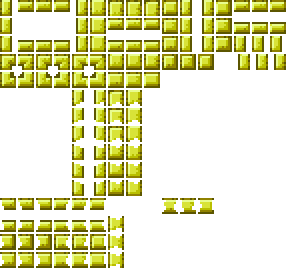
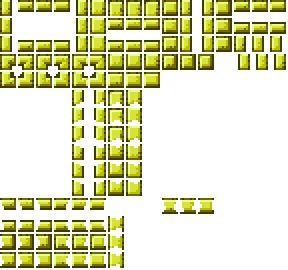
Tweaks to Radon and Oganesson Glow and Lighting

Changed region(s): [[0.0, 0.0, 1.0, 1.0], [0.5625, 0.7704, 0.75, 0.8], [0.5625, 0.7111, 0.75, 0.7407]]

diff --git a/Content/Underground/Moss/Radon/RadonMossBrick.cs b/Content/Underground/Moss/Radon/RadonMossBrick.cs
@@ -4,7 +4,7 @@ using SpiritReforged.Common.Visuals.Glowmasks;
 
 namespace SpiritReforged.Content.Underground.Moss.Radon;
 
-[AutoloadGlowmask("255,255,255")]
+[AutoloadGlowmask("225,225,225")]
 public class RadonMossBrick : ModTile, IAutoloadTileItem
 {
 	public void AddItemRecipes(ModItem item) => item.CreateRecipe(4).AddIngredient(ItemMethods.AutoItemType<RadonMoss>()).AddIngredient(ItemID.ClayBlock, 10).AddTile(TileID.Furnaces).Register();
@@ -26,5 +26,5 @@ public class RadonMossBrick : ModTile, IAutoloadTileItem
 		item.ResearchUnlockCount = 100;
 	}
 
-	public override void ModifyLight(int i, int j, ref float r, ref float g, ref float b) => (r, g, b) = (0.338f, 0.219f, 0.04f);
+	public override void ModifyLight(int i, int j, ref float r, ref float g, ref float b) => (r, g, b) = (0.318f * 1.1f, 0.23f * 1.1f, 0.04f * 1.1f);
 }

diff --git a/Content/Underground/Moss/Oganesson/OganessonMossBrick.cs b/Content/Underground/Moss/Oganesson/OganessonMossBrick.cs
@@ -27,5 +27,5 @@ public class OganessonMossBrick : ModTile, IAutoloadTileItem
 
 	}
 
-	public override void ModifyLight(int i, int j, ref float r, ref float g, ref float b) => (r, g, b) = (0.3f, 0.3f, 0.3f);
+	public override void ModifyLight(int i, int j, ref float r, ref float g, ref float b) => (r, g, b) = (0.35f, 0.35f, 0.35f);
 }
